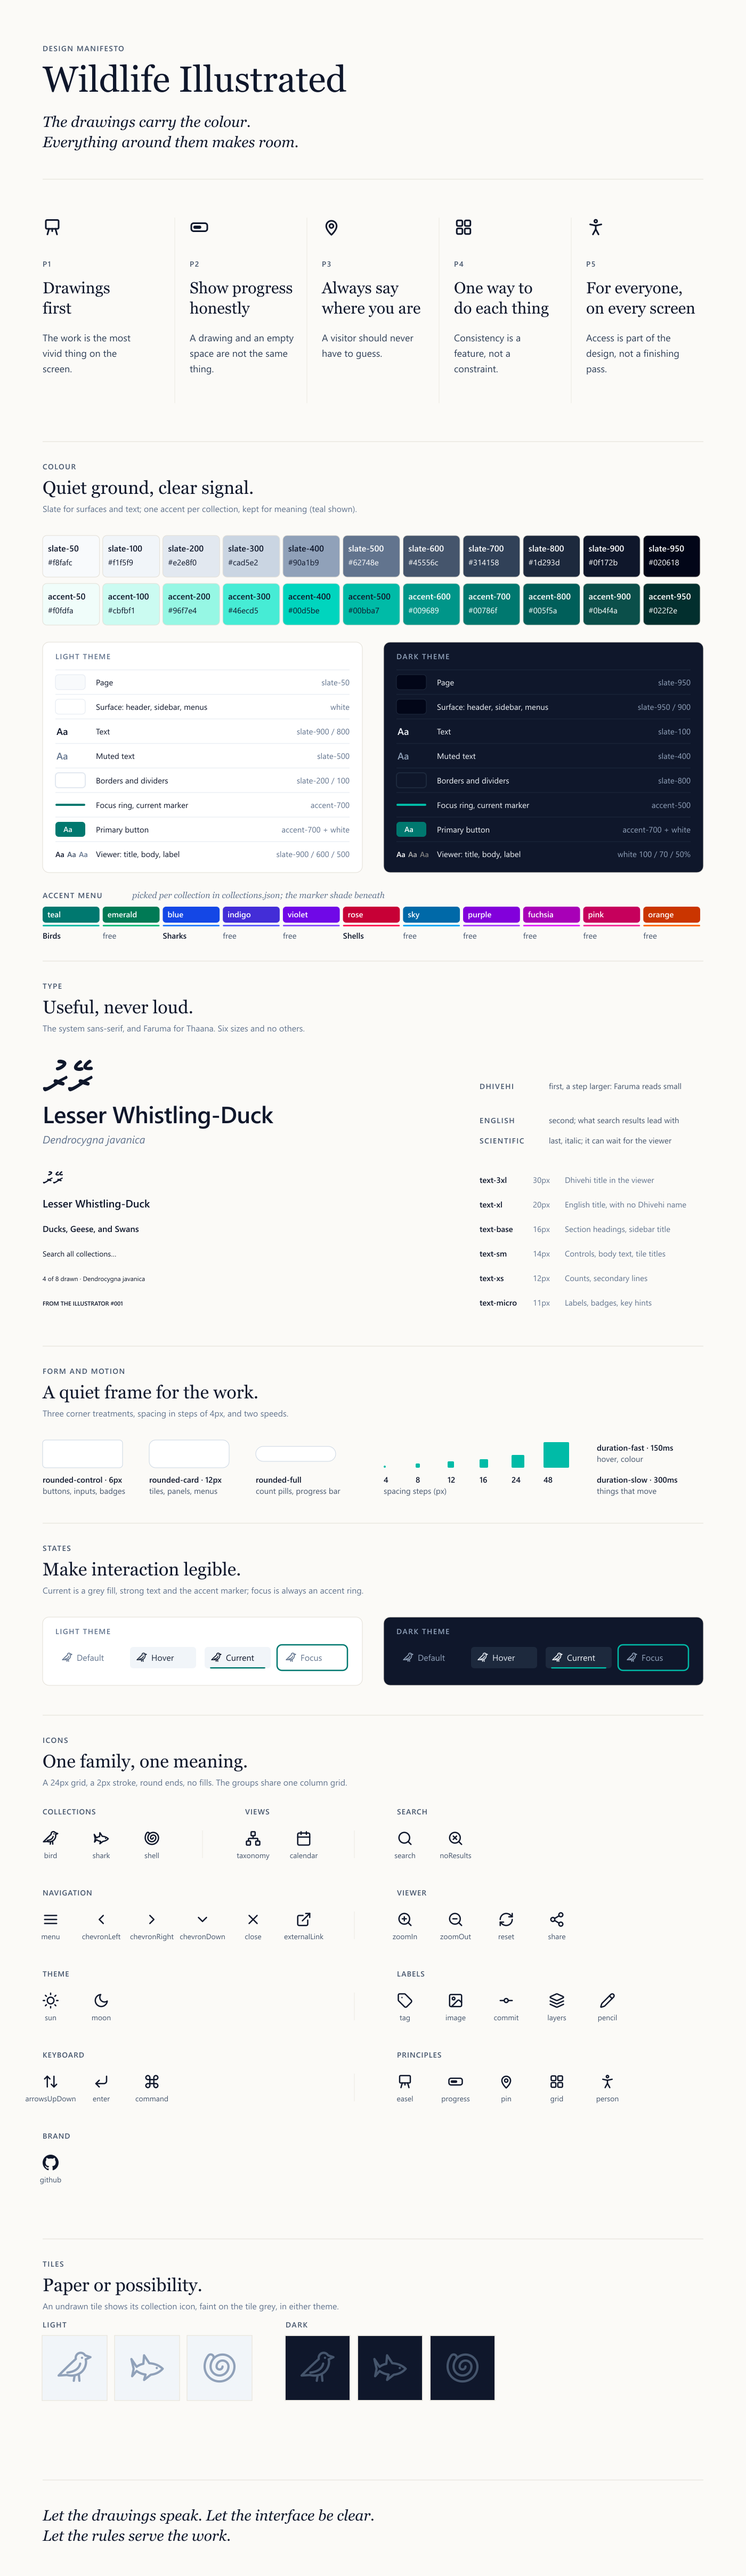
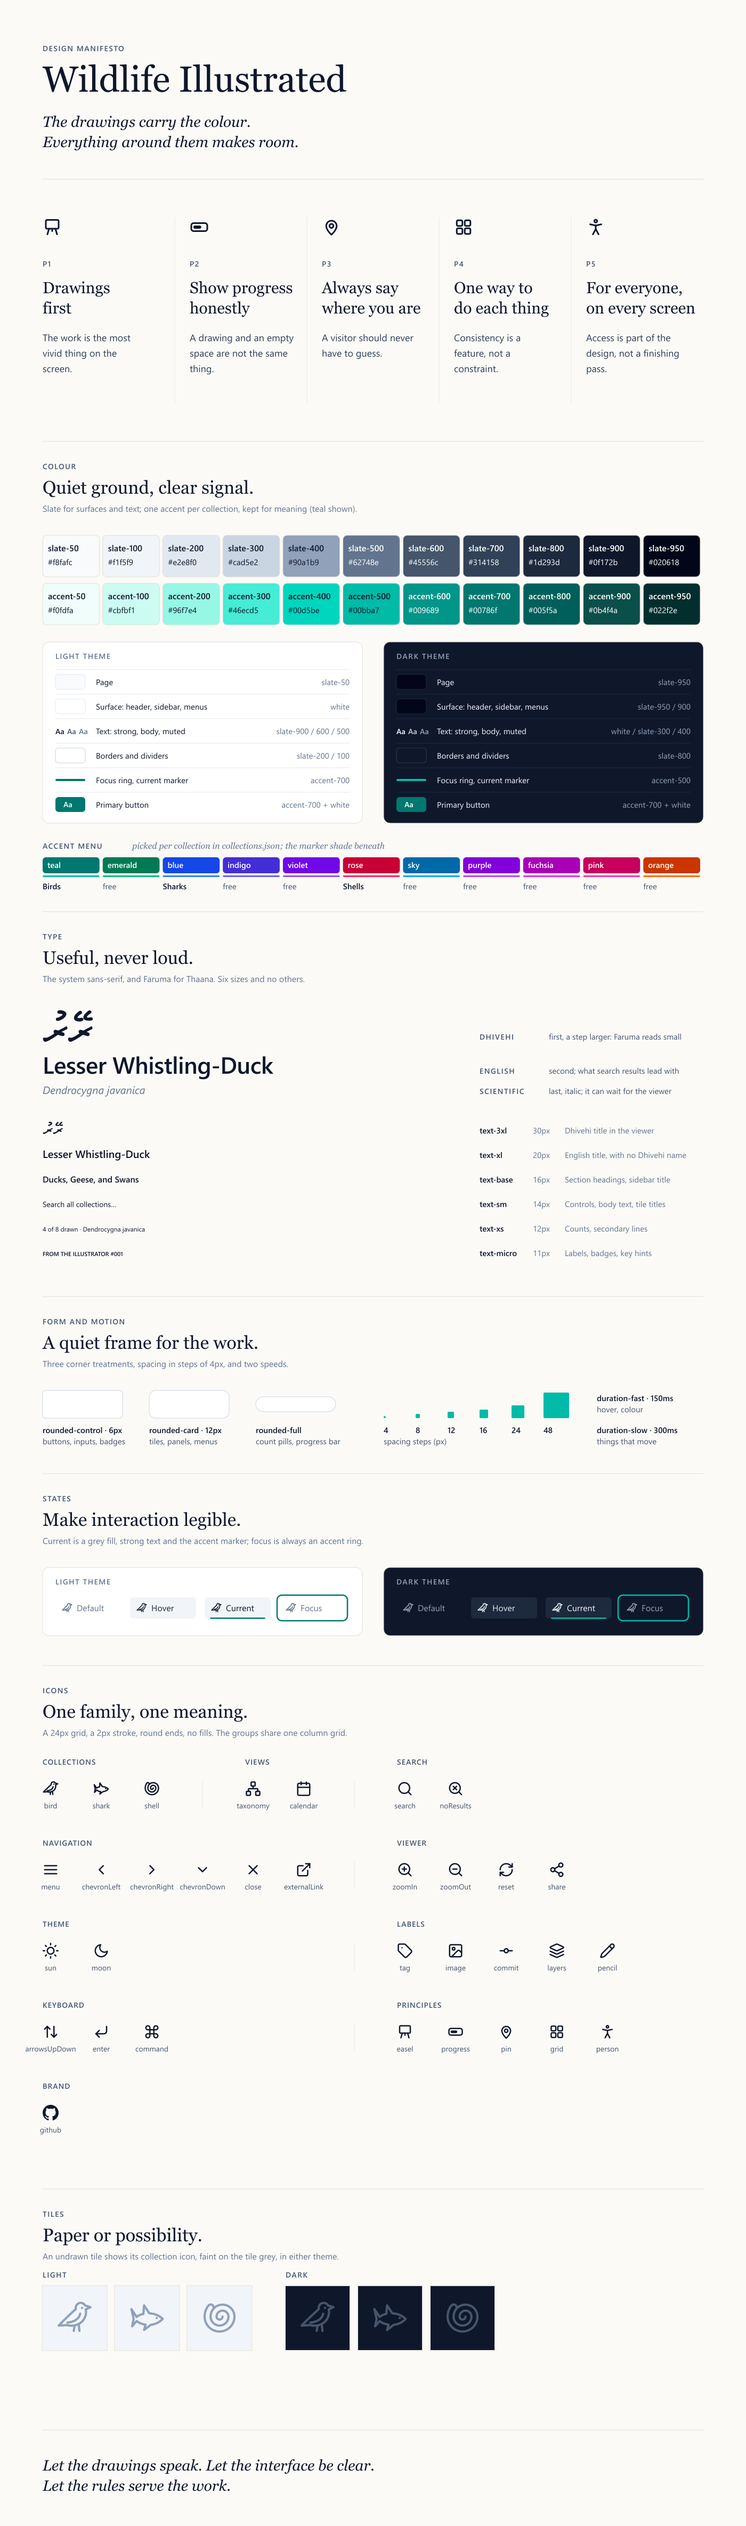
refactor: one set of text roles, the viewer's included
.text-strong, .text-body and .text-muted, each with its light and dark value,
replace .viewer-title/-body/-label and the class lists they stood for. The
viewer's dark text is now slate-300 and slate-400 rather than faded white,
the page's own; the guide's role cards and DESIGN.md follow.

diff --git a/src/viewer/ViewerDetails.vue b/src/viewer/ViewerDetails.vue
@@ -4,7 +4,7 @@
 
     <!-- Where it sits: its id, its group (a link back to it in the grid), and when it
          was drawn, in the month view's words; a series piece, what in. -->
-    <div class="flex flex-wrap items-center gap-x-2 gap-y-1 text-xs viewer-label">
+    <div class="flex flex-wrap items-center gap-x-2 gap-y-1 text-xs text-muted">
       <IdBadge :id="item.itemId" />
       <button
         class="focus-ring rounded-control link"
@@ -35,23 +35,23 @@
         >
           <component
             :is="name.role === 'title' ? 'h2' : 'p'"
-            class="font-dhivehi font-bold viewer-title text-left"
+            class="font-dhivehi font-bold text-strong text-left"
             :class="name.role === 'title' ? 'text-3xl' : 'text-xl'"
             dir="rtl"
           >
             {{ name.text }}
           </component>
-          <span v-if="name.roman" class="text-sm viewer-label">
+          <span v-if="name.roman" class="text-sm text-muted">
             <template v-if="name.role === 'also'">also </template><span lang="dv-Latn">{{ name.roman }}</span>
           </span>
         </div>
-        <h2 v-else-if="name.role === 'title'" class="text-xl font-semibold viewer-title leading-tight tracking-tight">
+        <h2 v-else-if="name.role === 'title'" class="text-xl font-semibold text-strong leading-tight tracking-tight">
           {{ name.text }}
         </h2>
-        <p v-else-if="name.role === 'common'" class="text-base font-semibold viewer-title leading-tight mt-1">
+        <p v-else-if="name.role === 'common'" class="text-base font-semibold text-strong leading-tight mt-1">
           {{ name.text }}
         </p>
-        <p v-else class="viewer-label italic text-sm mt-0.5">
+        <p v-else class="text-muted italic text-sm mt-0.5">
           {{ name.text }}
         </p>
       </template>
@@ -60,17 +60,17 @@
     <!-- Any other facts the list carries -->
     <div v-if="Object.keys(otherMeta).length" class="space-y-4">
       <div v-for="(value, key) in otherMeta" :key="key">
-        <p class="caps-label viewer-label mb-1">
+        <p class="caps-label text-muted mb-1">
           {{ formatMetaKey(key) }}
         </p>
-        <p class="text-sm viewer-body">{{ value }}</p>
+        <p class="text-sm text-body">{{ value }}</p>
       </div>
     </div>
 
     <!-- Illustrator note: the illustrator's own words, marked by the rule beside them. A
          long one opens folded to its first lines; the panel itself scrolls. -->
     <div v-if="paragraphs.length">
-      <p class="caps-label viewer-label mb-2">
+      <p class="caps-label text-muted mb-2">
         From the illustrator
       </p>
       <blockquote class="pl-3 border-l border-slate-200 dark:border-slate-700">
@@ -79,7 +79,7 @@
           class="space-y-2"
           :class="folded && 'max-h-36 overflow-hidden [mask-image:linear-gradient(to_bottom,black_60%,transparent)]'"
         >
-          <p v-for="(parts, n) in paragraphs" :key="n" class="viewer-body text-sm leading-relaxed">
+          <p v-for="(parts, n) in paragraphs" :key="n" class="text-body text-sm leading-relaxed">
             <template v-for="(part, i) in parts" :key="i">
               <a
                 v-if="part.href"
@@ -106,7 +106,7 @@
          leave the site, so they stay neutral; links within it (the group, "#11", Read more)
          are in the accent (docs/DESIGN.md §01). -->
     <div v-if="links.length || item.isDrawn">
-      <p v-if="links.length" class="caps-label viewer-label mb-2">
+      <p v-if="links.length" class="caps-label text-muted mb-2">
         Learn more
       </p>
       <div class="flex flex-wrap items-center gap-x-4 gap-y-1">
@@ -114,7 +114,7 @@
           v-for="link in links"
           :key="link.label"
           :href="link.url(item)"
-          class="text-sm font-medium viewer-body
+          class="text-sm font-medium text-body
                  hover:underline underline-offset-2 transition-colors duration-fast"
         >
           {{ link.label }}

diff --git a/script/generate/designGuide.ts b/script/generate/designGuide.ts
@@ -110,7 +110,7 @@ const theme = (dark: boolean) =>
       hover: SLATE['200'],
       muted: SLATE['400'],
       border: SLATE['800'],
-      viewer: ['#ffffff', whiteOnBlack(0.7), whiteOnBlack(0.5)],
+      text: ['#ffffff', SLATE['300'], SLATE['400']],
       ring: TEAL['500'],
     }
     : {
@@ -122,7 +122,7 @@ const theme = (dark: boolean) =>
       hover: SLATE['800'],
       muted: SLATE['500'],
       border: SLATE['200'],
-      viewer: [SLATE['900'], SLATE['600'], SLATE['500']],
+      text: [SLATE['900'], SLATE['600'], SLATE['500']],
       ring: TEAL['700'], // 500 is too pale on white for a ring
     };
 
@@ -151,8 +151,11 @@ function roleCard(x: number, y: number, w: number, dark: boolean) {
       dark ? 'slate-950 / 900' : 'white',
       (sx, sy) => swatch(t.surface, sx, sy),
     ],
-    ['Text', dark ? 'slate-100' : 'slate-900 / 800', (sx, sy) => aa(sx + 2, sy + 21, t.ink)],
-    ['Muted text', dark ? 'slate-400' : 'slate-500', (sx, sy) => aa(sx + 2, sy + 21, t.muted)],
+    [
+      'Text: strong, body, muted',
+      dark ? 'white / slate-300 / 400' : 'slate-900 / 600 / 500',
+      (sx, sy) => t.text.map((c, i) => aa(sx + i * 22, sy + 20, c, 14)).join(''),
+    ],
     [
       'Borders and dividers',
       dark ? 'slate-800' : 'slate-200 / 100',
@@ -167,11 +170,6 @@ function roleCard(x: number, y: number, w: number, dark: boolean) {
       'Primary button',
       'accent-700 + white',
       (sx, sy) => rect(sx, sy, 56, 28, TEAL['700'], 6) + aa(sx + 15, sy + 19, '#ffffff', 14),
-    ],
-    [
-      'Viewer: title, body, label',
-      dark ? 'white 100 / 70 / 50%' : 'slate-900 / 600 / 500',
-      (sx, sy) => t.viewer.map((c, i) => aa(sx + i * 22, sy + 20, c, 14)).join(''),
     ],
   ];
   const row = 46;
@@ -475,7 +473,7 @@ export function contrastReport(): string[] {
     ['accent-700 ring on white', TEAL['700'], '#ffffff'],
     ['accent-500 ring on slate-950', TEAL['500'], SLATE['950']],
     ['white 70% on black', whiteOnBlack(0.7), '#000000'],
-    ['white 50% on black', whiteOnBlack(0.5), '#000000'],
+    ['body slate-300 on slate-950', SLATE['300'], SLATE['950']],
     [
       `undrawn icon slate-${UNDRAWN.light.ink} on slate-${UNDRAWN.light.background}`,
       SLATE[UNDRAWN.light.ink],

diff --git a/src/about/AboutMaking.vue b/src/about/AboutMaking.vue
@@ -4,13 +4,13 @@
 <template>
   <section class="border-t border-slate-200 py-12 dark:border-slate-800" aria-labelledby="about-made">
     <h2 id="about-made" class="caps-label text-muted">How it is made</h2>
-    <p class="mt-3 text-xl font-semibold text-slate-900 dark:text-white">
+    <p class="mt-3 text-xl font-semibold text-strong">
       {{ species.length ? 'By hand, by name, by reference.' : 'By hand.' }}
     </p>
     <div class="mt-6 grid gap-8 md:grid-cols-3">
       <div>
         <h3 class="text-base font-semibold text-slate-900 dark:text-slate-100">Drawn by hand</h3>
-        <p class="mt-2 text-sm text-slate-600 dark:text-slate-300">
+        <p class="mt-2 text-sm text-body">
           Pen first, then markers, watercolour and now and then Photoshop. Each drawing
           comes with a short note on what worked and what did not.
         </p>
@@ -18,7 +18,7 @@
       <!-- The names and the references are the species collections'; a series has neither. -->
       <div v-if="species.length">
         <h3 class="text-base font-semibold text-slate-900 dark:text-slate-100">Named in Dhivehi</h3>
-        <p class="mt-2 text-sm text-slate-600 dark:text-slate-300">
+        <p class="mt-2 text-sm text-body">
           <template v-if="named">{{ named }} carry their Dhivehi name in Thaana, set in
             Faruma, with how to say it.</template>
           <template v-else>Each species carries its Dhivehi name in Thaana where it has one.</template>
@@ -27,7 +27,7 @@
       </div>
       <div v-if="species.length">
         <h3 class="text-base font-semibold text-slate-900 dark:text-slate-100">Checked against references</h3>
-        <p class="mt-2 text-sm text-slate-600 dark:text-slate-300">
+        <p class="mt-2 text-sm text-body">
           Every page links to where to learn more<template v-if="references">: {{ references }}</template>.
         </p>
       </div>

diff --git a/src/about/AboutIntro.vue b/src/about/AboutIntro.vue
@@ -3,10 +3,10 @@
   <section class="grid items-center gap-8 pt-4 pb-12 sm:pt-8 md:grid-cols-[1fr_15rem]">
     <div>
       <p class="caps-label text-muted">About</p>
-      <h1 id="about-title" class="mt-2 text-3xl font-semibold tracking-tight text-slate-900 dark:text-white">
+      <h1 id="about-title" class="mt-2 text-3xl font-semibold tracking-tight text-strong">
         An archive of drawings, in progress.
       </h1>
-      <p class="mt-4 max-w-prose text-base text-slate-600 dark:text-slate-300">
+      <p class="mt-4 max-w-prose text-base text-body">
         <template v-if="species.length">
           Wildlife Illustrated sets out to draw {{ subjectOf(species) }}, one species at a time.
           Each is shown with its English and scientific names, and its Dhivehi name where it has one.
@@ -27,7 +27,7 @@
       </a>
       <figcaption class="mt-3">
         <p v-if="firstName" class="flex flex-wrap items-baseline gap-x-2">
-          <span class="font-dhivehi text-xl font-bold text-slate-900 dark:text-white" dir="rtl" lang="dv">
+          <span class="font-dhivehi text-xl font-bold text-strong" dir="rtl" lang="dv">
             {{ firstName.script }}
           </span>
           <span v-if="firstName.roman" class="text-sm text-muted" lang="dv-Latn">{{ firstName.roman }}</span>

diff --git a/src/about/AboutProgress.vue b/src/about/AboutProgress.vue
@@ -2,10 +2,10 @@
 <template>
   <section class="border-t border-slate-200 py-12 dark:border-slate-800" aria-labelledby="about-progress">
     <h2 id="about-progress" class="caps-label text-muted">Progress</h2>
-    <p class="mt-3 text-3xl font-semibold tabular-nums text-slate-900 dark:text-white">
+    <p class="mt-3 text-3xl font-semibold tabular-nums text-strong">
       {{ drawnOf(stats.drawn, stats.total) }}
     </p>
-    <p class="mt-3 max-w-prose text-sm text-slate-600 dark:text-slate-300">
+    <p class="mt-3 max-w-prose text-sm text-body">
       Counted honestly: a piece is drawn or it isn't. The rest are planned, and wait
       in the gallery as their collection's icon until their turn comes.
       <template v-if="latest">
@@ -25,7 +25,7 @@
             <CollectionIcon :collection="card" class="size-5" />
             {{ card.label }}
           </span>
-          <span class="text-sm tabular-nums text-slate-600 dark:text-slate-300">{{ card.count }}</span>
+          <span class="text-sm tabular-nums text-body">{{ card.count }}</span>
           <span class="h-1 overflow-hidden rounded-full bg-slate-100 dark:bg-slate-800" aria-hidden="true">
             <span class="block h-full rounded-full bg-accent-500" :style="{ width: `${card.percent}%` }" />
           </span>

diff --git a/src/styles/components.css b/src/styles/components.css
@@ -67,18 +67,6 @@
       bg-slate-200 text-slate-600 dark:bg-slate-700 dark:text-slate-300;
   }
 
-  /* The viewer follows the theme like the rest of the page (docs/DESIGN.md section 1):
-     its three text roles, light first. On white: 17.9, 7.6 and 4.8:1; on black: 21,
-     10.0 and 5.3:1. */
-  .viewer-title {
-    @apply text-slate-900 dark:text-white;
-  }
-  .viewer-body {
-    @apply text-slate-600 dark:text-white/70;
-  }
-  .viewer-label {
-    @apply text-slate-500 dark:text-white/50;
-  }
   /* An icon button over the drawing (the viewer's controls). */
   .icon-btn-overlay {
     @apply flex items-center justify-center w-8 h-8 rounded-control
@@ -109,7 +97,14 @@
       dark:focus-visible:ring-offset-slate-950;
   }
 
-  /* Secondary/muted body text — WCAG-AA in both themes. */
+  /* The three text roles, everywhere (the viewer too): titles and names, running text, and
+     labels and counts. On white 17.8, 7.6 and 4.8:1; on slate-950 20.2, 13.6 and 7.7:1. */
+  .text-strong {
+    @apply text-slate-900 dark:text-white;
+  }
+  .text-body {
+    @apply text-slate-600 dark:text-slate-300;
+  }
   .text-muted {
     @apply text-slate-500 dark:text-slate-400;
   }

diff --git a/src/viewer/Viewer.vue b/src/viewer/Viewer.vue
@@ -31,13 +31,13 @@
             <button @click="resetZoom" class="icon-btn-overlay" aria-label="Reset zoom">
               <Icon name="reset" class="size-4" />
             </button>
-            <span class="ml-2 text-micro font-mono viewer-label tabular-nums">{{ Math.round(scale * 100) }}%</span>
+            <span class="ml-2 text-micro font-mono text-muted tabular-nums">{{ Math.round(scale * 100) }}%</span>
           </div>
 
           <!-- Position in the timeline -->
           <span
             v-if="position"
-            class="absolute left-1/2 -translate-x-1/2 text-xs tabular-nums viewer-body"
+            class="absolute left-1/2 -translate-x-1/2 text-xs tabular-nums text-body"
             aria-live="polite"
           >{{ position }}<template v-if="props.query"> · matching '{{ props.query }}'</template></span>
 
@@ -115,7 +115,7 @@
             </div>
 
             <!-- Error -->
-            <p v-if="error" class="viewer-label text-sm">Could not load image</p>
+            <p v-if="error" class="text-muted text-sm">Could not load image</p>
           </div>
           </div>
 

diff --git a/src/about/AboutHistory.vue b/src/about/AboutHistory.vue
@@ -2,11 +2,11 @@
 <template>
   <section class="border-t border-slate-200 py-12 dark:border-slate-800" aria-labelledby="about-history">
     <h2 id="about-history" class="caps-label text-muted">So far</h2>
-    <p class="mt-3 text-xl font-semibold text-slate-900 dark:text-white">One page at a time.</p>
+    <p class="mt-3 text-xl font-semibold text-strong">One page at a time.</p>
     <ol class="mt-6 space-y-6 border-l border-slate-200 pl-6 dark:border-slate-800">
       <li v-for="event in HISTORY" :key="event.when">
         <p class="text-xs font-semibold tabular-nums text-muted">{{ event.when }}</p>
-        <p class="mt-1 max-w-prose text-sm text-slate-600 dark:text-slate-300">{{ event.what }}</p>
+        <p class="mt-1 max-w-prose text-sm text-body">{{ event.what }}</p>
       </li>
     </ol>
     <p class="mt-6 text-sm">

diff --git a/src/about/AboutDesign.vue b/src/about/AboutDesign.vue
@@ -1,10 +1,10 @@
 <!-- The manifesto's first line, and the way to the rest of it on the docs site. -->
 <template>
   <section class="border-t border-slate-200 py-12 dark:border-slate-800" aria-label="Design">
-    <blockquote class="max-w-prose text-xl font-semibold text-slate-900 dark:text-white">
+    <blockquote class="max-w-prose text-xl font-semibold text-strong">
       The drawings carry the colour. Everything around them makes room.
     </blockquote>
-    <p class="mt-3 max-w-prose text-sm text-slate-600 dark:text-slate-300">
+    <p class="mt-3 max-w-prose text-sm text-body">
       Five principles shape the site, from the grey that waits for a drawing to the way
       each count is worded.
     </p>

diff --git a/src/shell/TopBar.vue b/src/shell/TopBar.vue
@@ -29,7 +29,7 @@
       class="hidden sm:flex items-center justify-center gap-2 shrink-0 md:pr-1 select-none focus-ring rounded-control max-md:min-w-9 max-md:min-h-9"
       aria-label="Wildlife Illustrated"
     >
-      <LogoMark class="size-6 text-slate-900 dark:text-white" />
+      <LogoMark class="size-6 text-strong" />
       <span class="hidden md:flex items-baseline gap-1" aria-hidden="true">
         <span class="text-sm font-semibold tracking-tight text-slate-800 dark:text-slate-100">Wildlife</span>
         <span class="text-sm font-light tracking-tight text-muted">Illustrated</span>

diff --git a/src/about/AboutNewest.vue b/src/about/AboutNewest.vue
@@ -6,7 +6,7 @@
     aria-labelledby="about-recent"
   >
     <h2 id="about-recent" class="caps-label text-muted">Recently drawn</h2>
-    <p class="mt-3 text-xl font-semibold text-slate-900 dark:text-white">The newest pages, newest first.</p>
+    <p class="mt-3 text-xl font-semibold text-strong">The newest pages, newest first.</p>
     <ul class="mt-6 grid gap-4 grid-cols-2 sm:grid-cols-[repeat(auto-fill,minmax(9rem,1fr))]">
       <li v-for="d in recent" :key="`${d.collection}/${d.id}`">
         <a :href="drawingHref(d)" class="focus-ring block rounded-card">

diff --git a/src/styles/main.css b/src/styles/main.css
@@ -27,7 +27,7 @@
              panels, menus) · rounded-full (pills, progress)
     type     Tailwind's scale, plus text-micro for labels, badges and hints
     motion   duration-fast (hover, colour) · duration-slow (things that move)
-    on dark  text-white (titles) · text-white/70 (body) · text-white/50 (labels)
+    text     .text-strong · .text-body · .text-muted (components.css), in both themes
 */
 @theme {
   /* Type, shadows and radii come from tokens.css, which the docs site shares. */
